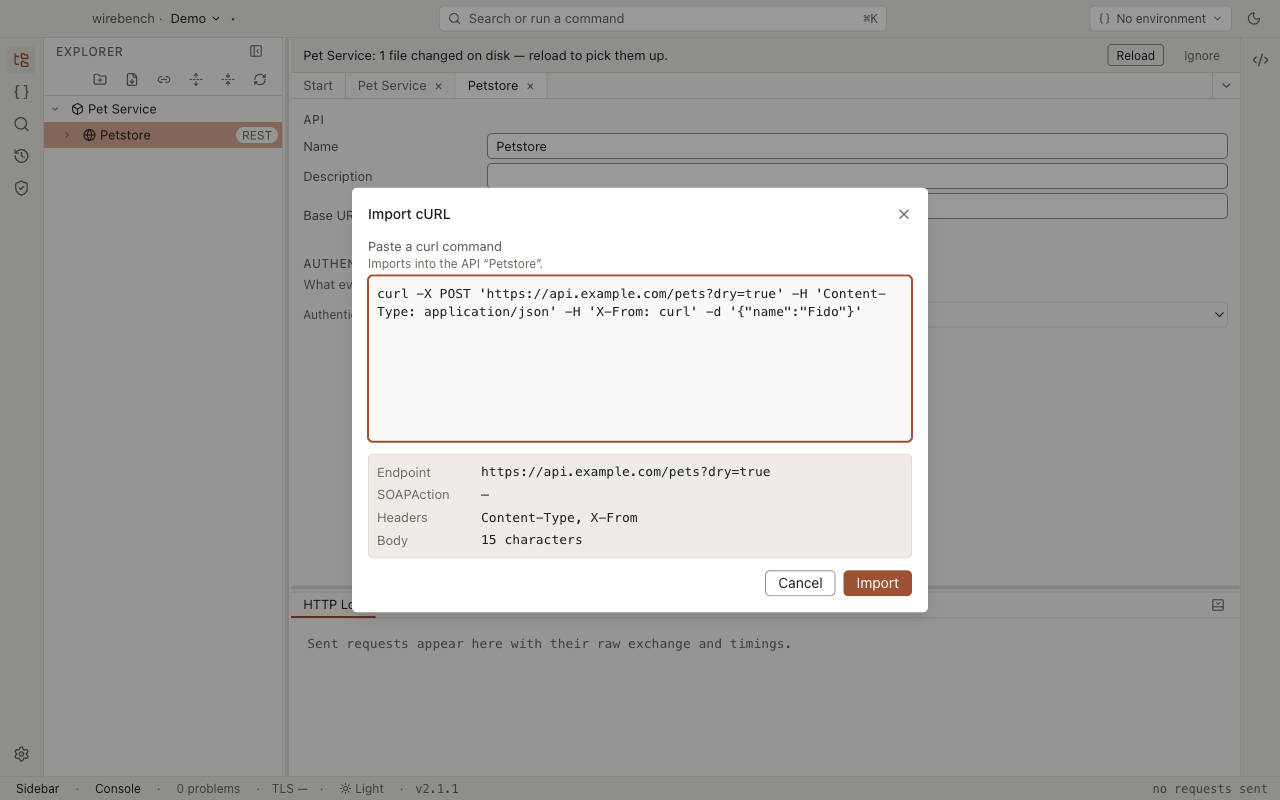
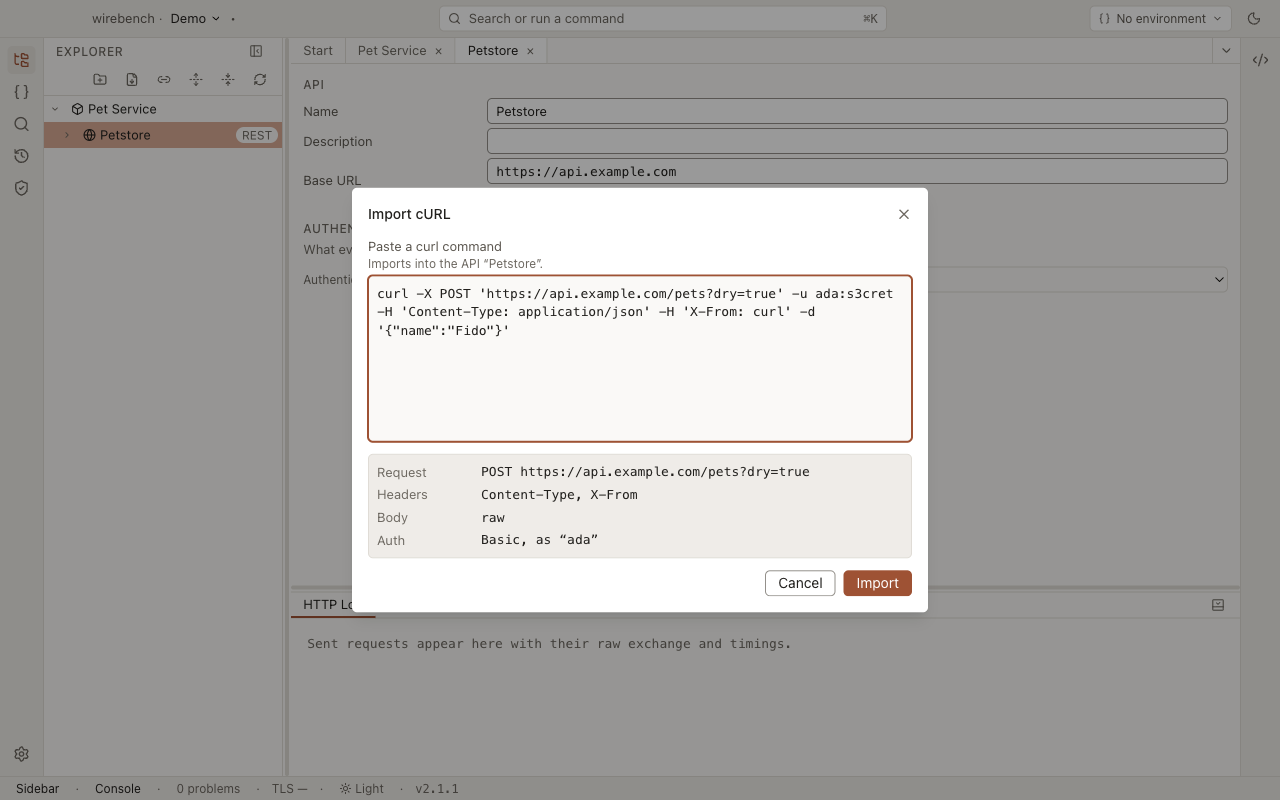
docs(site): add the cURL switching page
Every flag the REST and SOAP imports read, and what each becomes; the flags they drop and what to do
instead. The preview screenshot now pastes a -u so the Auth row shows, and dismisses the watcher's
banner before the dialog covers it.

diff --git a/e2e/specs/docs-screenshots.spec.ts b/e2e/specs/docs-screenshots.spec.ts
@@ -22,6 +22,7 @@ import {
   createProject,
   createProjectWithCalculator,
   createWorkspace,
+  dismissChangedOnDiskBanners,
   expandExplorer,
   openFirstRequest,
   workspaceProjectDir,
@@ -364,12 +365,14 @@ test.describe('docs site screenshots', () => {
     await createWorkspace(window, 'Demo');
     await createProject(window, 'Pet Service');
     await createApi(window, 'Petstore', 'https://api.example.com');
+    // The capture cannot dismiss a watcher banner once the dialog covers it, so it goes first.
+    await dismissChangedOnDiskBanners(window);
     await apiRow(window, 'Petstore').click({ button: 'right' });
     await window.getByRole('menuitem', { name: 'Import cURL…' }).click();
     await expect(window.getByTestId('import-curl-target')).toContainText('the API “Petstore”');
     await window.getByLabel('cURL command').click();
     await window.keyboard.insertText(
-      `curl -X POST 'https://api.example.com/pets?dry=true' -H 'Content-Type: application/json' -H 'X-From: curl' -d '{"name":"Fido"}'`,
+      `curl -X POST 'https://api.example.com/pets?dry=true' -u ada:s3cret -H 'Content-Type: application/json' -H 'X-From: curl' -d '{"name":"Fido"}'`,
     );
     await expect(window.getByTestId('import-curl-submit')).toBeEnabled();
     await shoot(window, 'importers/curl-preview');

diff --git a/docs/plans/2026-09-19-wirebench-switching-guide-plan.md b/docs/plans/2026-09-19-wirebench-switching-guide-plan.md
@@ -39,7 +39,7 @@ task, each after `WIREBENCH_SKIP_PERF=1 pnpm check` passes.
   - Verify: `pnpm docs:build`; `pnpm check:banned-terms`.
 - [x] **T8. OpenAPI and Swagger page.** `switching/openapi.mdx`.
   - Verify: `pnpm docs:build`.
-- [ ] **T9. cURL page.** `switching/curl.mdx`.
+- [x] **T9. cURL page.** `switching/curl.mdx`.
   - Verify: `pnpm docs:build`.
 - [ ] **T10. Importers guide corrections.** Fix the four contradictions from spec §3, link each source
   section to its switching page, and re-shoot the affected images.
